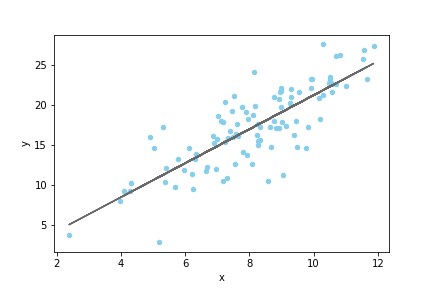
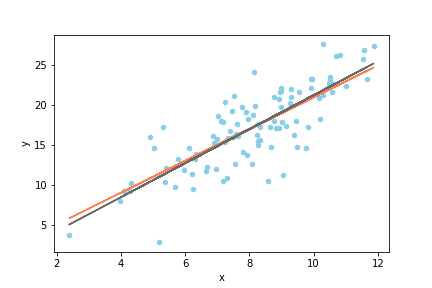
Modify linregress.png and update programming-9.md accordingly

diff --git a/programming2021/programming-9.md b/programming2021/programming-9.md
@@ -615,7 +615,9 @@ intercept_stderr:  1.425
 
 なお、linregressが計算するP値は両側検定のP値ですので、片側検定の場合はその半分の値となります。
 
-なお、上記のモデル、疑似データ、回帰直線をプロットすると、以下の図のようになります。こうした図を作成する方法については、次回の講義で取り扱います。
+なお、上記のモデル、疑似データ、回帰直線をプロットすると、以下の図のようになります。オレンジの線が真のモデル、灰色の線が推定された回帰直線です。
+
+こうした図を作成する方法については、次回の講義で取り扱います。
 
 ![linregress](img/linregress.png)
 
